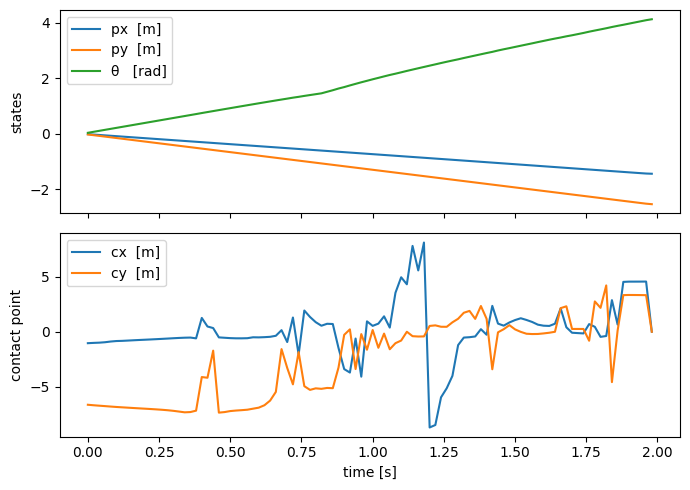
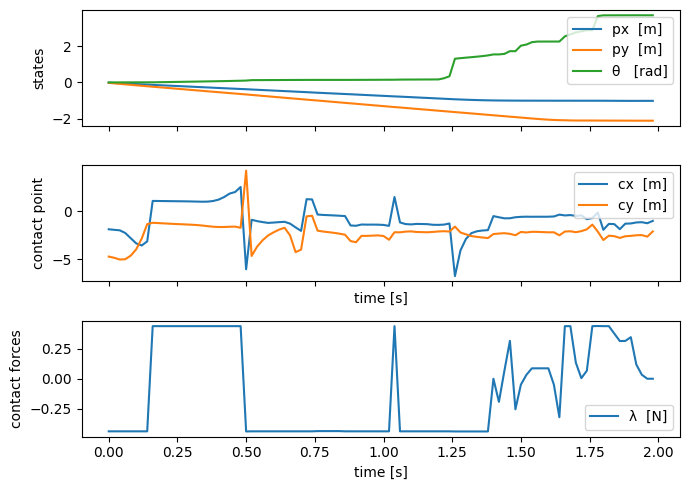
Fixing contact orientation

diff --git a/src/examples/pushbox/VisualizePushBox.py b/src/examples/pushbox/VisualizePushBox.py
@@ -12,11 +12,13 @@ b = 0.25                        # half height of the box
 dt = 0.02                       # time step (20 ms) 
 N           = 100               # number of time steps
 num_state   = 3                 # STATE  (3) : [px, py, θ]
-example_name = "pushbox_sdf"    # "pushbox" or "pushbox_sdf"
+example_name = "pushbox"    # "pushbox" or "pushbox_sdf"
 gradient_method = "None"
+
 if example_name == "pushbox":
-    num_control = 6             # CONTROL (6) : [cx, cy, λ1-λ4, λ5]  (cx, cy plotted)
+    num_control = 6             # CONTROL (6) : [cx, cy, λ1-λ4]  (cx, cy plotted)
     csv_file   = Path(__file__).resolve().parent / "results" / f"results_{example_name}.csv" 
+    gradient_method = "Analytic"
 elif example_name == "pushbox_sdf":
     gradient_method = "AD"      # gradient method for SDF: "AD" or "FD"
     num_control = 3             # CONTROL (3) : [cx, cy, λ]  (cx, cy plotted)
@@ -36,8 +38,11 @@ cx,  cy         = data[:, 3], data[:, 4]
 lam             = data[:, 5:]  
 t               = np.arange(N) * dt
 
+world_cx = px +  np.cos(theta)*cx  -  np.sin(theta)*cy
+world_cy = py +  np.sin(theta)*cx  +  np.cos(theta)*cy
+
 # ---------- STATIC PLOTS ----------
-fig, ax = plt.subplots(2, 1, sharex=True, figsize=(7, 5))
+fig, ax = plt.subplots(3, 1, sharex=True, figsize=(7, 5))
 
 ax[0].plot(t, px,     label="px  [m]")
 ax[0].plot(t, py,     label="py  [m]")
@@ -45,11 +50,16 @@ ax[0].plot(t, theta,  label="θ   [rad]")
 ax[0].set_ylabel("states")
 ax[0].legend()
 
-ax[1].plot(t, cx, label="cx  [m]")
-ax[1].plot(t, cy, label="cy  [m]")
+ax[1].plot(t, world_cx, label="cx  [m]")
+ax[1].plot(t, world_cy, label="cy  [m]")
 ax[1].set_xlabel("time [s]")
 ax[1].set_ylabel("contact point")
 ax[1].legend()
+
+ax[2].plot(t, lam, label="λ  [N]")
+ax[2].set_xlabel("time [s]")
+ax[2].set_ylabel("contact forces")
+ax[2].legend()
 
 fig.tight_layout()
 fig.savefig(f"results/figures_{example_name}_{gradient_method}.png", dpi=100, bbox_inches='tight')
@@ -61,6 +71,7 @@ ax2.set_xlim(px.min()-1, px.max()+1)
 ax2.set_ylim(py.min()-1, py.max()+1)
 box,   = ax2.plot([], [], 'k-', lw=2, label="box")
 center,= ax2.plot([], [], 'bo', ms=4, label="box center")
+contact_points, = ax2.plot([], [], 'ro', ms=6, label="contact points")
 goal,  = ax2.plot([], [], 'r--', ms=4, label="goal")
 ax2.set_title("Push Box Animation")
 ax2.set_xlabel("x [m]")
@@ -81,8 +92,9 @@ def frame(k):
     # Update plot elements
     box.set_data(world[0], world[1])
     center.set_data([px[k]], [py[k]])
+    contact_points.set_data([world_cx[k]], [world_cy[k]])
     goal.set_data(goal_corner[0], goal_corner[1])
-    return box, center
+    return box, center, contact_points, goal
 
 ani = FuncAnimation(fig2, frame, frames=N, interval=dt*1000, blit=True)
 ani.save(f"results/animation_{example_name}_{gradient_method}.gif", writer='pillow', fps=1/dt, dpi=100)

diff --git a/src/examples/pushbox/python/SolvePushboxSDF.py b/src/examples/pushbox/python/SolvePushboxSDF.py
@@ -13,7 +13,7 @@ import pyCRISP
 
 # Set the hyperparameters
 num_state = 3
-num_control = 6
+num_control = 3
 N = 100
 variableNum = N * (num_state + num_control)
 
@@ -56,7 +56,7 @@ crispInitialState_share = np.ndarray((num_state,), dtype=np.float64, buffer=cris
 crispInitialState_share[:] = x0
 
 # Create optimization problem
-problemName = "Pushbox"
+problemName = "PushboxSDF"
 folderName = "model"
 problem = pyCRISP.OptimizationProblem(variableNum, problemName)
 obj     = pyCRISP.ObjectiveFunction(variableNum, num_state, problemName, folderName, "pushboxObjective")
@@ -81,12 +81,12 @@ solver.set_hyper_parameters("maxIterations", np.array([1000]))              # ma
 solver.set_hyper_parameters("trustRegionInitRadius", np.array([1.0]))       # initial trust region radius
 solver.set_hyper_parameters("trustRegionMaxRadius", np.array([10.0]))       # maximum trust region radius
 solver.set_hyper_parameters("mu", np.array([1e1]))                          # penalty parameter
-solver.set_hyper_parameters("muMax", np.array([1e8]))                       # maximum penalty parameter
+solver.set_hyper_parameters("muMax", np.array([1e9]))                       # maximum penalty parameter
 solver.set_hyper_parameters("etaLow", np.array([0.25]))                     # low threshold for reduction ratio
 solver.set_hyper_parameters("etaHigh", np.array([0.75]))                    # high threshold for reduction ratio
 solver.set_hyper_parameters("trailTol", np.array([1e-5]))                   # tolerance for the outer iterations
 solver.set_hyper_parameters("trustRegionTol", np.array([1e-5]))             # tolerance for the trust region
-solver.set_hyper_parameters("constraintTol", np.array([1e-6]))              # tolerance for the maximum constraints violation
+solver.set_hyper_parameters("constraintTol", np.array([1e-7]))              # tolerance for the maximum constraints violation
 # solver.set_hyper_parameters("verbose", np.array([0]))                       # verbose level
 # solver.set_hyper_parameters("WeightedMode", np.array([0]))                  # 0: no weighted, 1: weighted
 # solver.set_hyper_parameters("WeightedTolFactor", np.array([10.0]))          # factor for the weighted mode
@@ -112,7 +112,7 @@ try:
 
         crispSol_share[:] = solution
         print(f"[Solver] published new trajectory @ {time.strftime('%H:%M:%S')}")
-        print(f"[pyCRISP] Initial state: {initial_state}, Final state: {final_state}")
+        print(f"[pyCRISP] Initial state: {initial_state}, Final state: {final_state}, Solution: {solution[:3]}")
 except KeyboardInterrupt:
     print("[Solver] interrupted by user, cleaning up…")
 finally:

diff --git a/src/examples/pushbox/cpp/SolvePushbox.cpp b/src/examples/pushbox/cpp/SolvePushbox.cpp
@@ -8,8 +8,8 @@
 using namespace CRISP;
 
 // Define model model parameters for pushbox
-const scalar_t a = 0.05;
-const scalar_t b = 0.05;
+const scalar_t a = 0.5;
+const scalar_t b = 0.25;
 const scalar_t m = 1;
 const scalar_t mu = 0.5;
 const scalar_t g = 9.8;
@@ -201,7 +201,7 @@ int main(){
         solver.solve();
         xOptimal = solver.getSolution();
 
-        std::ofstream log(PROJECT_ROOT / "src/examples/pushbox/results/results_pushbox.csv");
+        std::ofstream log(PROJECT_ROOT / "examples/pushbox/results/results_pushbox.csv");
         for (size_t k = 0; k < xOptimal.size(); ++k) log << xOptimal[k] << '\n';
         log.close();                              
 

diff --git a/src/examples/pushbox/cpp/SolvePushboxSDF.cpp b/src/examples/pushbox/cpp/SolvePushboxSDF.cpp
@@ -234,7 +234,7 @@ int main(){
         solver.solve();
         xOptimal = solver.getSolution();
 
-        std::ofstream log(PROJECT_ROOT / "src/examples/pushbox/results/results_pushbox_sdf_AD.csv");
+        std::ofstream log(PROJECT_ROOT / "examples/pushbox/results/results_pushbox_sdf_AD.csv");
         for (size_t k = 0; k < xOptimal.size(); ++k) log << xOptimal[k] << '\n';
         log.close();                              
 
